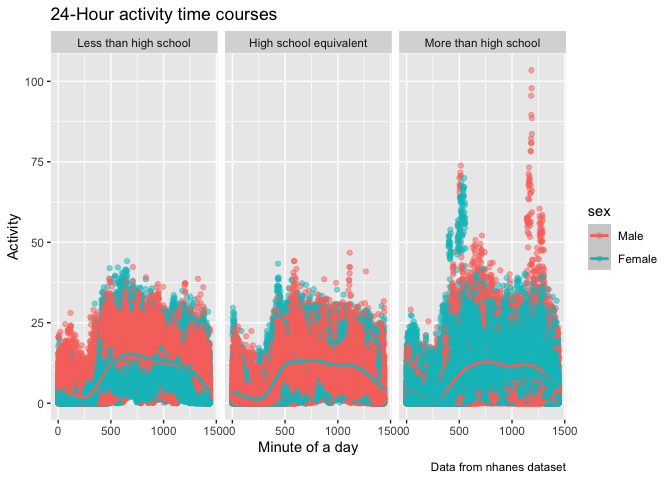
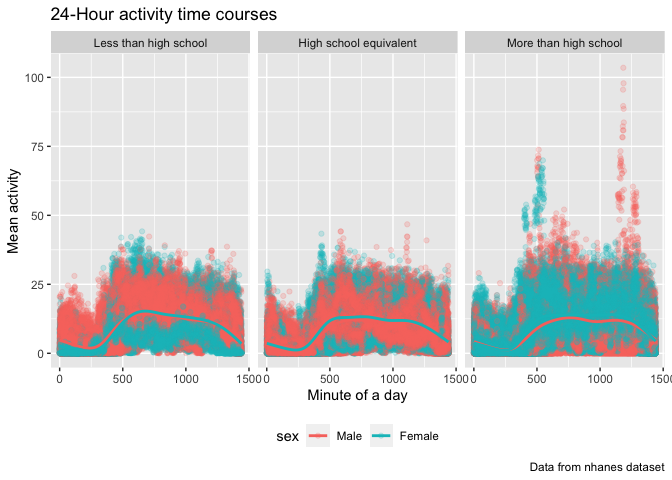
Problem 3 add all comments.

diff --git a/p8105_hw3_cl4469.md b/p8105_hw3_cl4469.md
@@ -337,6 +337,9 @@ Produce a reader-friendly table for the number of men and women in each
 education category, and create a visualization of the age distributions
 for men and women in each education category. Comment on these items.
 
+Create a table of the age distributions for men and women in each
+education category
+
 ``` r
 nhanes_df |>
   group_by(education,sex) |>
@@ -356,12 +359,12 @@ nhanes_df |>
 | High school equivalent | 50400 |  33120 |
 | More than high school  | 80640 |  84960 |
 
-Comment: From this table, we can derived that of the three levels of
-education, both males and females have the highest percentage with a
-“high school equivalent”, compared to “Less than high school” and “More
-than high school”. And there is no significant difference between number
-of male and female in education level of “Less than high school” and
-“More than high school”; however, the number of male in “High school
+Comment: From this table and boxplot, we can derived that of the three
+levels of education, both males and females have the highest percentage
+with a “high school equivalent”, compared to “Less than high school” and
+“More than high school”. And there is no significant difference between
+number of male and female in education level of “Less than high school”
+and “More than high school”; however, the number of male in “High school
 equivalent” is significantly larger than that of women.
 
 Create a visualization of the age distributions for men and women in
@@ -377,7 +380,13 @@ nhanes_df |>
 ```
 
 ![](p8105_hw3_cl4469_files/figure-gfm/unnamed-chunk-17-1.png)<!-- -->
-Comment:
+
+Comment:The boxplot shows the min, max, and median ages of males and
+females for each level of educatiom. For each three of categories, ages
+are between 20 and 80 years. For “Less than High school education” and
+“high school equivalent education”, we can see females have a higher
+median age than males. For the “More than high school education”,females
+have a lower median age than males.
 
 Using your tidied dataset, aggregate across minutes to create a total
 activity variable for each participant. Plot these total activities
@@ -403,6 +412,13 @@ nhanes_df |>
     ## `geom_smooth()` using method = 'loess' and formula = 'y ~ x'
 
 ![](p8105_hw3_cl4469_files/figure-gfm/unnamed-chunk-18-1.png)<!-- -->
+Comment:For “less than high school education”, both male and female’s
+total activity tends to decrease as age increases.And Total activity is
+generally higher in female than in male until about age 50. There is a
+peak around age 60 in female’s tend line but soon decline after that.
+For participants with a “high school equivalent” and “more than high
+school education”, total activity of female is generally higher than
+male across all ages.
 
 Accelerometer data allows the inspection activity over the course of the
 day. Make a three-panel plot that shows the 24-hour activity time
@@ -414,15 +430,28 @@ including smooth trends may help identify differences.
 nhanes_df |>
   mutate(min = as.numeric(min)) |>
   ggplot(aes(x=min,y=mims, color=sex))+
-  geom_point(alpha=0.5)+
-  geom_smooth()+
+  geom_point(alpha=0.2)+
+  geom_smooth(se=F)+
   facet_grid(. ~ education)+
   labs(title="24-Hour activity time courses",
        x="Minute of a day",
-       y="Activity",
-       caption = "Data from nhanes dataset")
+       y="Mean activity",
+       caption = "Data from nhanes dataset")+
+  theme(legend.position = "bottom")
 ```
 
     ## `geom_smooth()` using method = 'gam' and formula = 'y ~ s(x, bs = "cs")'
 
 ![](p8105_hw3_cl4469_files/figure-gfm/unnamed-chunk-19-1.png)<!-- -->
+
+Comment: The 24-hour activity time course plot is divided into three
+panels. Across all education levels, males consistently exhibit higher
+or equivalent activity levels compared to females. Notably, in the ‘Less
+than High School’ and ‘High School Equivalent’ education categories,
+female activity levels appear slightly lower than their male
+counterparts, particularly in the early time segments.However, within
+the ‘More Than High School’ education category, the data reveals the
+most pronounced peaks in activity. Specifically, males exhibit higher
+activity levels in the morning, while females are more active during the
+evening peak. The difference between male and female activity is most
+striking during the latter part of the day.”
